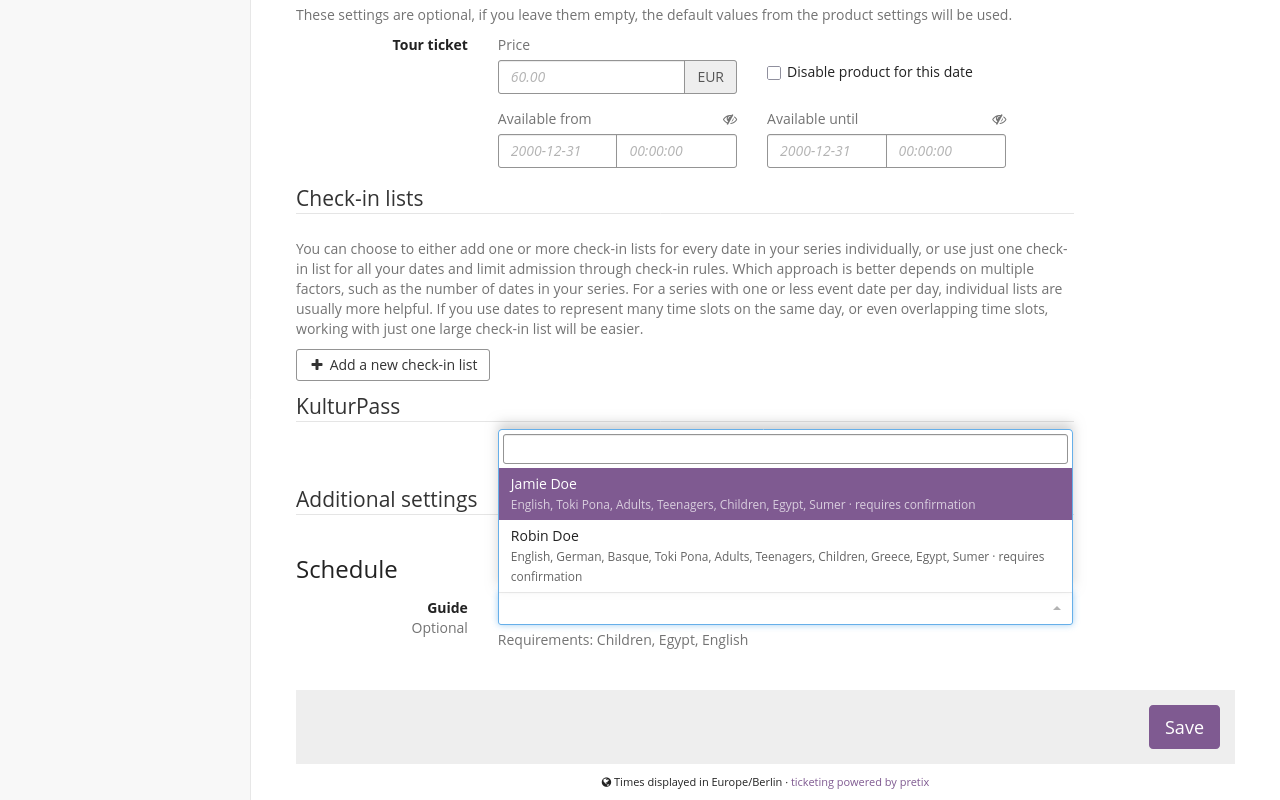
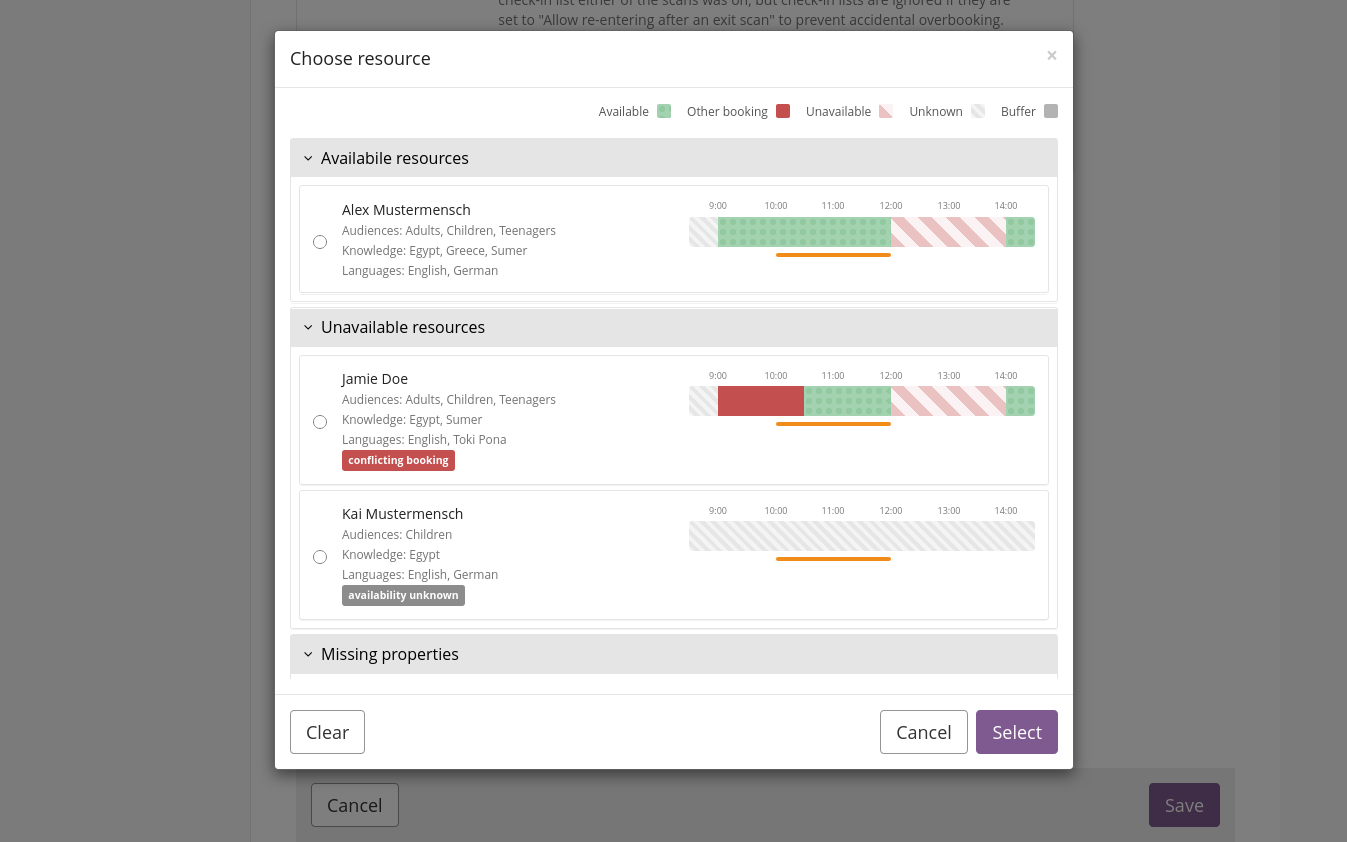
Document new process on assinging resources to dates

diff --git a/docs/guides/resources-and-scheduling.md b/docs/guides/resources-and-scheduling.md
@@ -347,21 +347,23 @@ It should list all dates you created in the previous step.
 
 Click one of the dates.
 Under "Additional settings", you can find the "Schedule" settings.
-There is a field for every resource type that is required by one of the products assigned to this date.
-The text below that field lists the required properties of the resource.
-Click the field and select the individual resource you want to assign.
+There is an entry for every resource type that is required by one of the products assigned to this date.
+The entry lists the required properties of the resource.
+Click the :btn-icon:fa3-edit: Select: button next to the entry.
+This opens a popup giving you detailed information on available and unavailable resources.
 
-![Date settings page, scrolled to the bottom. The section 'Additional settings' has the subheading 'Schedule' with a dropdown menu for 'Guide'. The dropdown is opened, showing the result 'Jamie Doe' with properties 'English, Toki Pona, Adults, Teenagers, Children, Egypt, Sumer · requires confirmation](../assets/screens/resources-scheduling/assign-resource.png "Assigning a resource")
+![Date settings page, scrolled to the bottom, displaying a popup titled 'Choose resource', listing complex information on resources, their availabilities, conflicting bookings, and properties.](../assets/screens/resources-scheduling/assign-resource.png "Assigning a resource")
 
 Assume, for instance, your date requires a resource of the type "Guide".
 The required properties are "Children", "Egypt", and "English".
-Click the field.
+Click the :btn-icon:fa3-edit: Select: button.
 
-A drop-down menu opens, listing all resources of the type "Guide".
+A drop-down menu opens, listing available resources at the top, unavailable resource below that, and missing properties at the bottom.
 The menu helps you select an appropriate resource by displaying tags next to each entry:
 `conflicting booking`, `availability unknown`, `unavailable`, or `does not match requirements`.
-If an entry does not have any of those issues, then it will have none of those tags.
-Select an entry with no issue tags next to it.
+The menu also displays timelines encoding availabilities and issues.
+Select one of the entries under "Available resources".
+If no resources are available, then you may have to change the planned date or find another solution.
 
 Click the :btn:Save: button.
 As soon as you do this, your event's contact mail address will send an email to the resource's managers.
